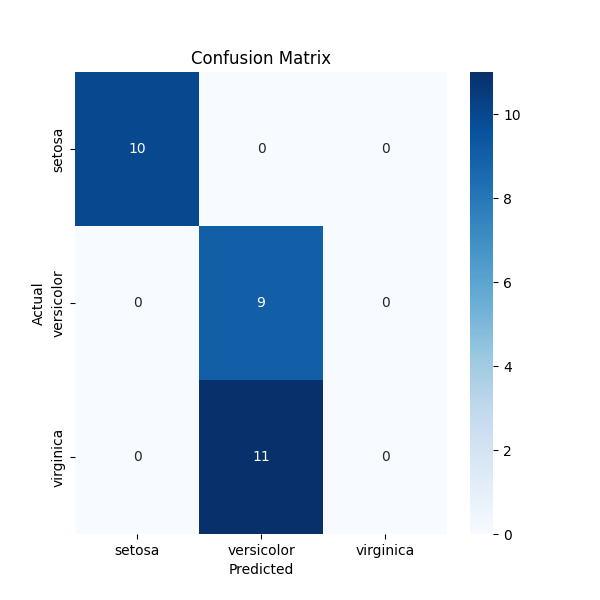
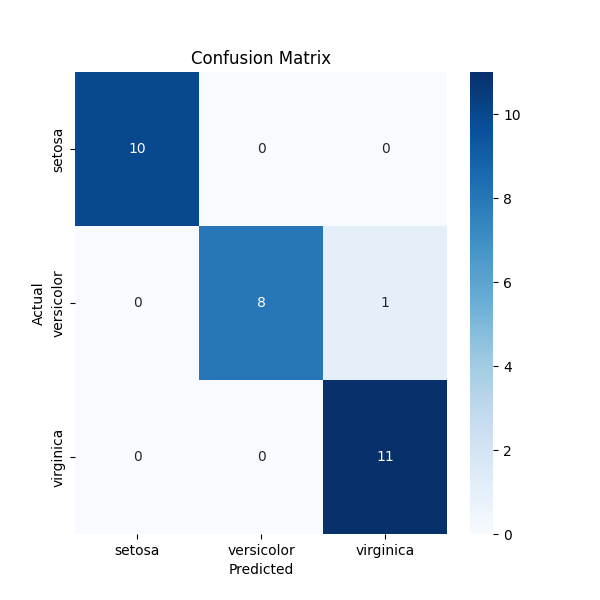
iris rf with dagshub

Changed region(s): [[0.33, 0.63, 0.75, 0.9], [0.63, 0.48, 0.66, 0.51], [0.42, 0.48, 0.45, 0.51]]

diff --git a/iris-rf.py b/iris-rf.py
@@ -1,0 +1,69 @@
+import mlflow
+import mlflow.sklearn
+from sklearn.datasets import load_iris
+from sklearn.ensemble import RandomForestClassifier
+from sklearn.model_selection import train_test_split
+from sklearn.metrics import accuracy_score, confusion_matrix
+import matplotlib.pyplot as plt
+import seaborn as sns
+
+import dagshub
+dagshub.init(repo_owner='Abhaysharma53', repo_name='dagshub-test-run', mlflow=True)
+
+
+mlflow.set_tracking_uri("https://dagshub.com/Abhaysharma53/dagshub-test-run.mlflow")
+
+
+
+
+# Load the iris dataset
+iris = load_iris()
+X = iris.data
+y = iris.target
+
+# Split the dataset into training and testing sets
+X_train, X_test, y_train, y_test = train_test_split(X, y, test_size=0.2, random_state=42)
+
+# Define the parameters for the Random Forest model
+max_depth = 1
+n_estimators = 100
+
+# apply mlflow
+mlflow.set_experiment('iris-dt')
+
+with mlflow.start_run():
+    rf = RandomForestClassifier(max_depth=max_depth, n_estimators= n_estimators)
+
+    rf.fit(X_train, y_train)
+
+    y_pred = rf.predict(X_test)
+
+    accuracy = accuracy_score(y_test, y_pred)
+
+    mlflow.log_metric('accuracy', accuracy)
+
+    mlflow.log_param('max_depth', max_depth)
+
+    # Create a confusion matrix plot
+    cm = confusion_matrix(y_test, y_pred)
+    plt.figure(figsize=(6,6))
+    sns.heatmap(cm, annot=True, fmt='d', cmap='Blues', xticklabels=iris.target_names, yticklabels=iris.target_names)
+    plt.ylabel('Actual')
+    plt.xlabel('Predicted')
+    plt.title('Confusion Matrix')
+    #plt.show()
+    
+    # Save the plot as an artifact
+    plt.savefig("confusion_matrix.png")
+
+#     # mlflow code
+    mlflow.log_artifact("confusion_matrix.png")
+
+    mlflow.log_artifact(__file__)
+
+    mlflow.sklearn.log_model(rf, "decision tree")
+
+    mlflow.set_tag('author','Abhay')
+    mlflow.set_tag('model','decision tree')
+
+    print('accuracy', accuracy)
